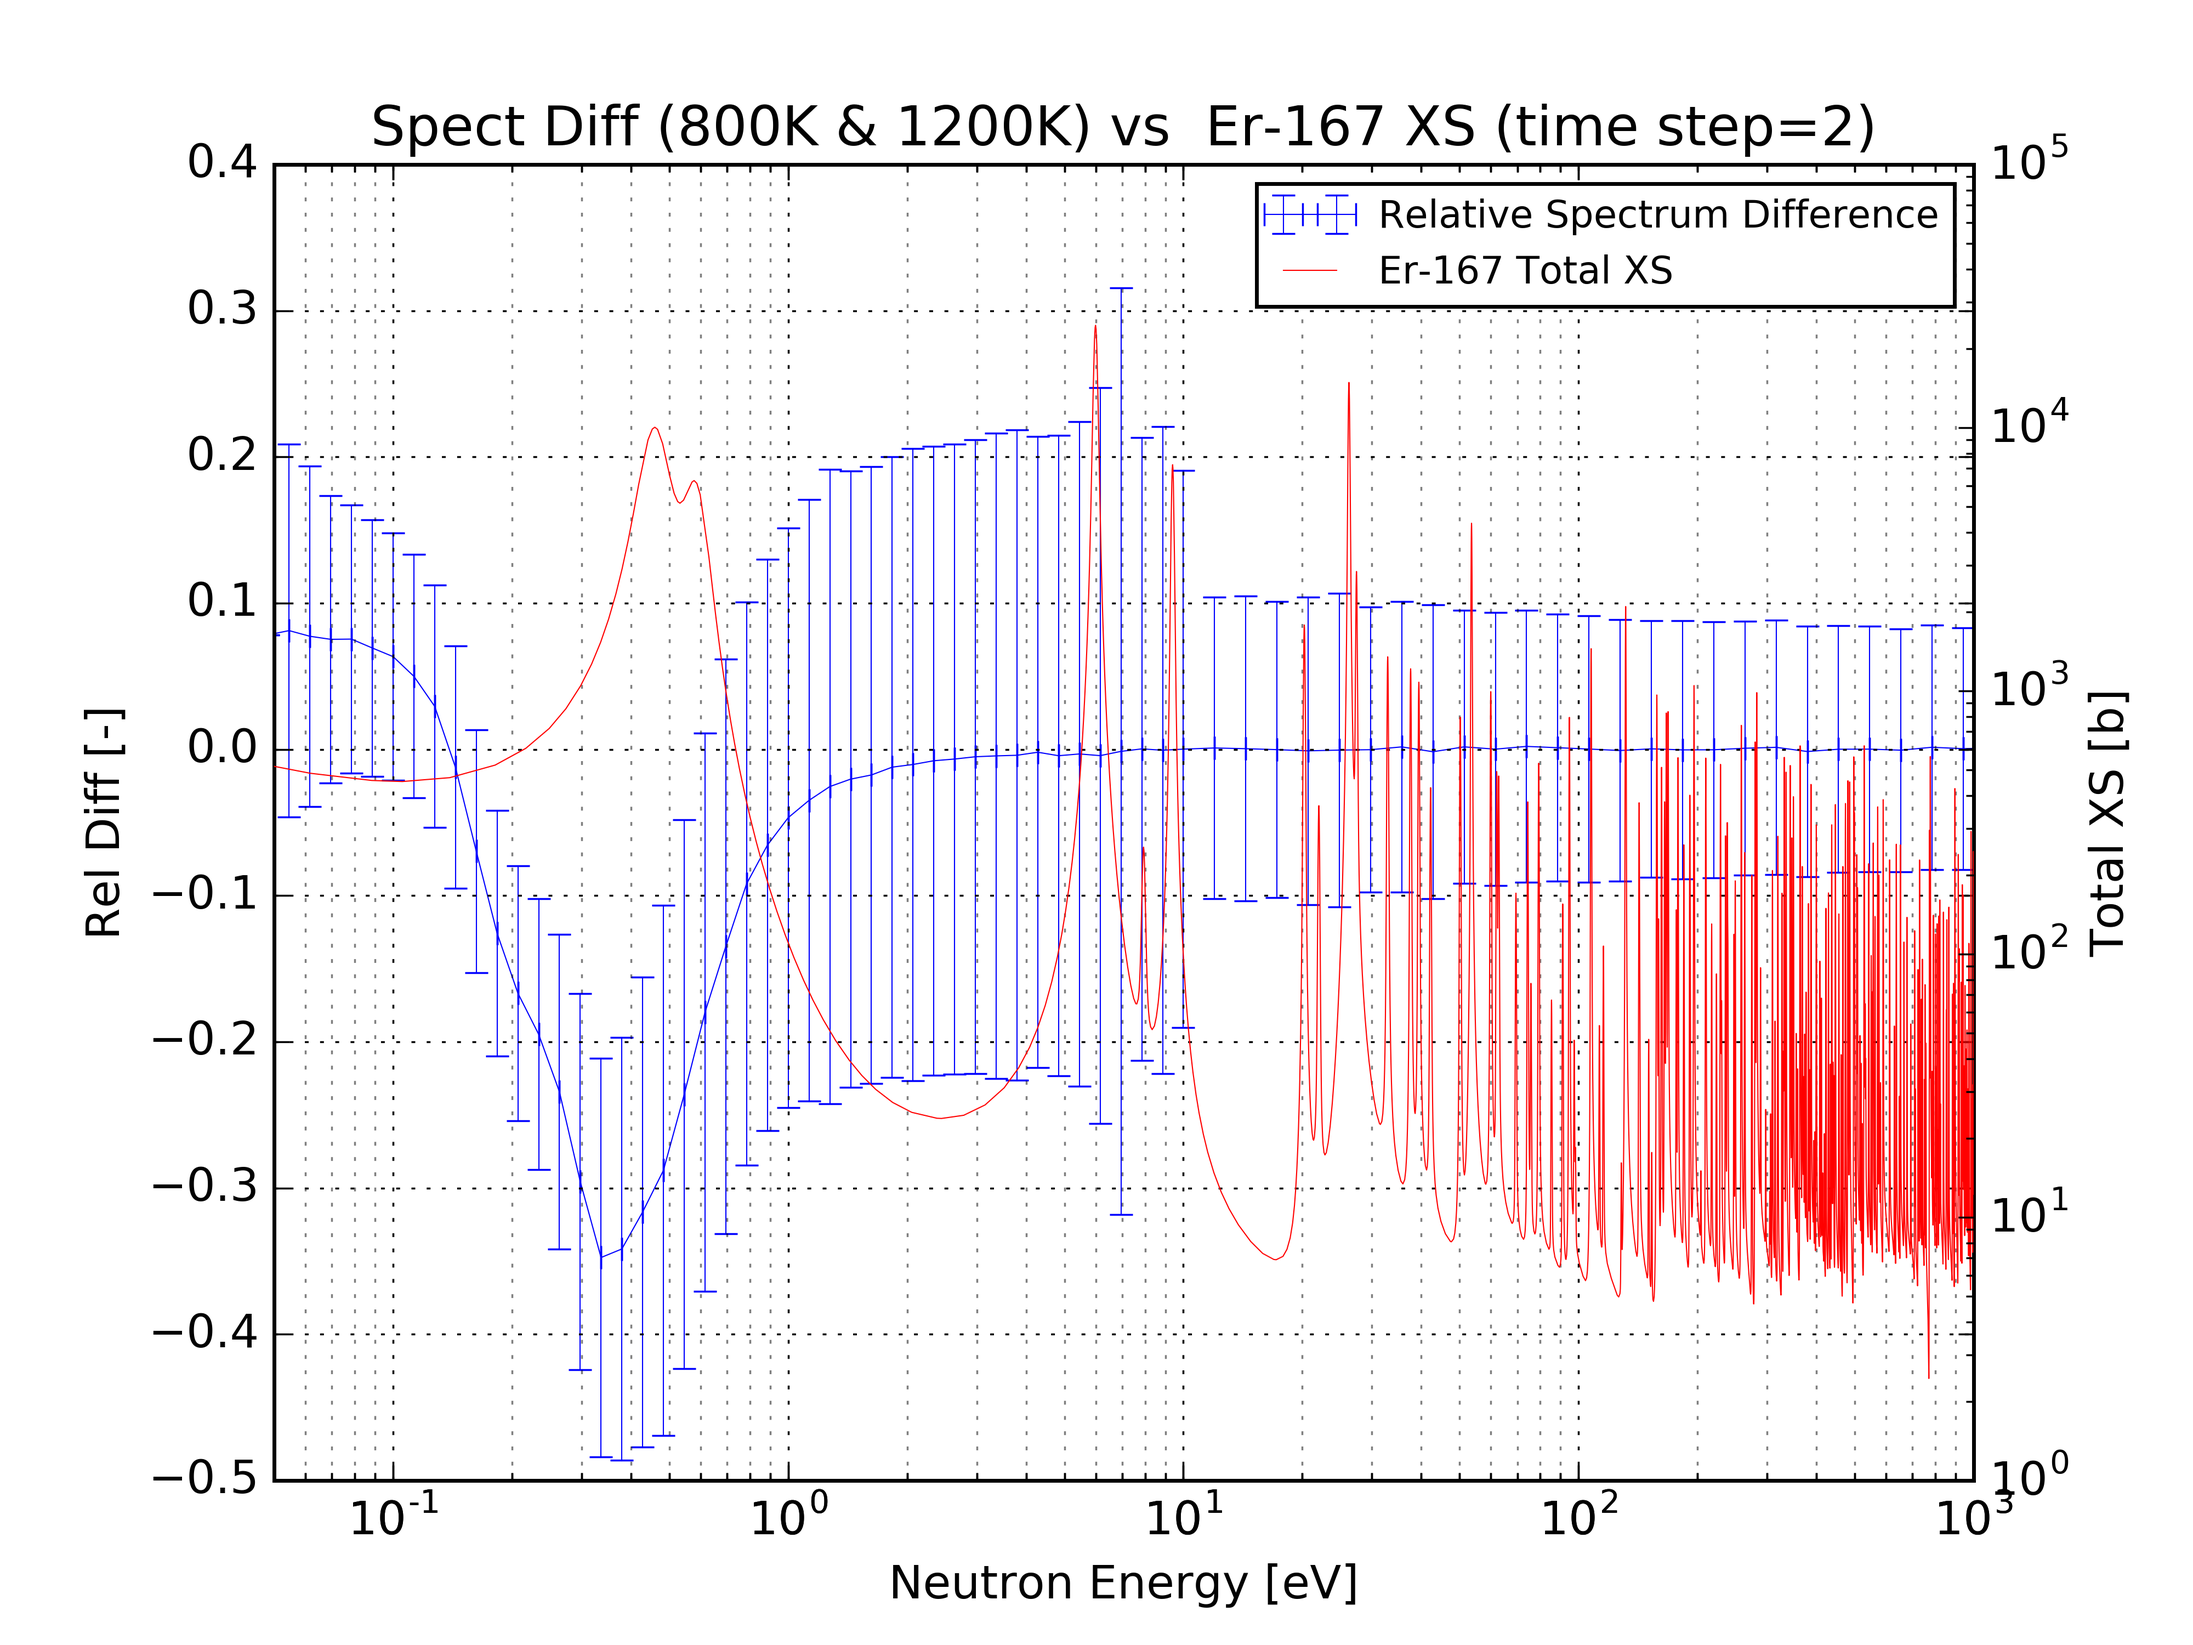
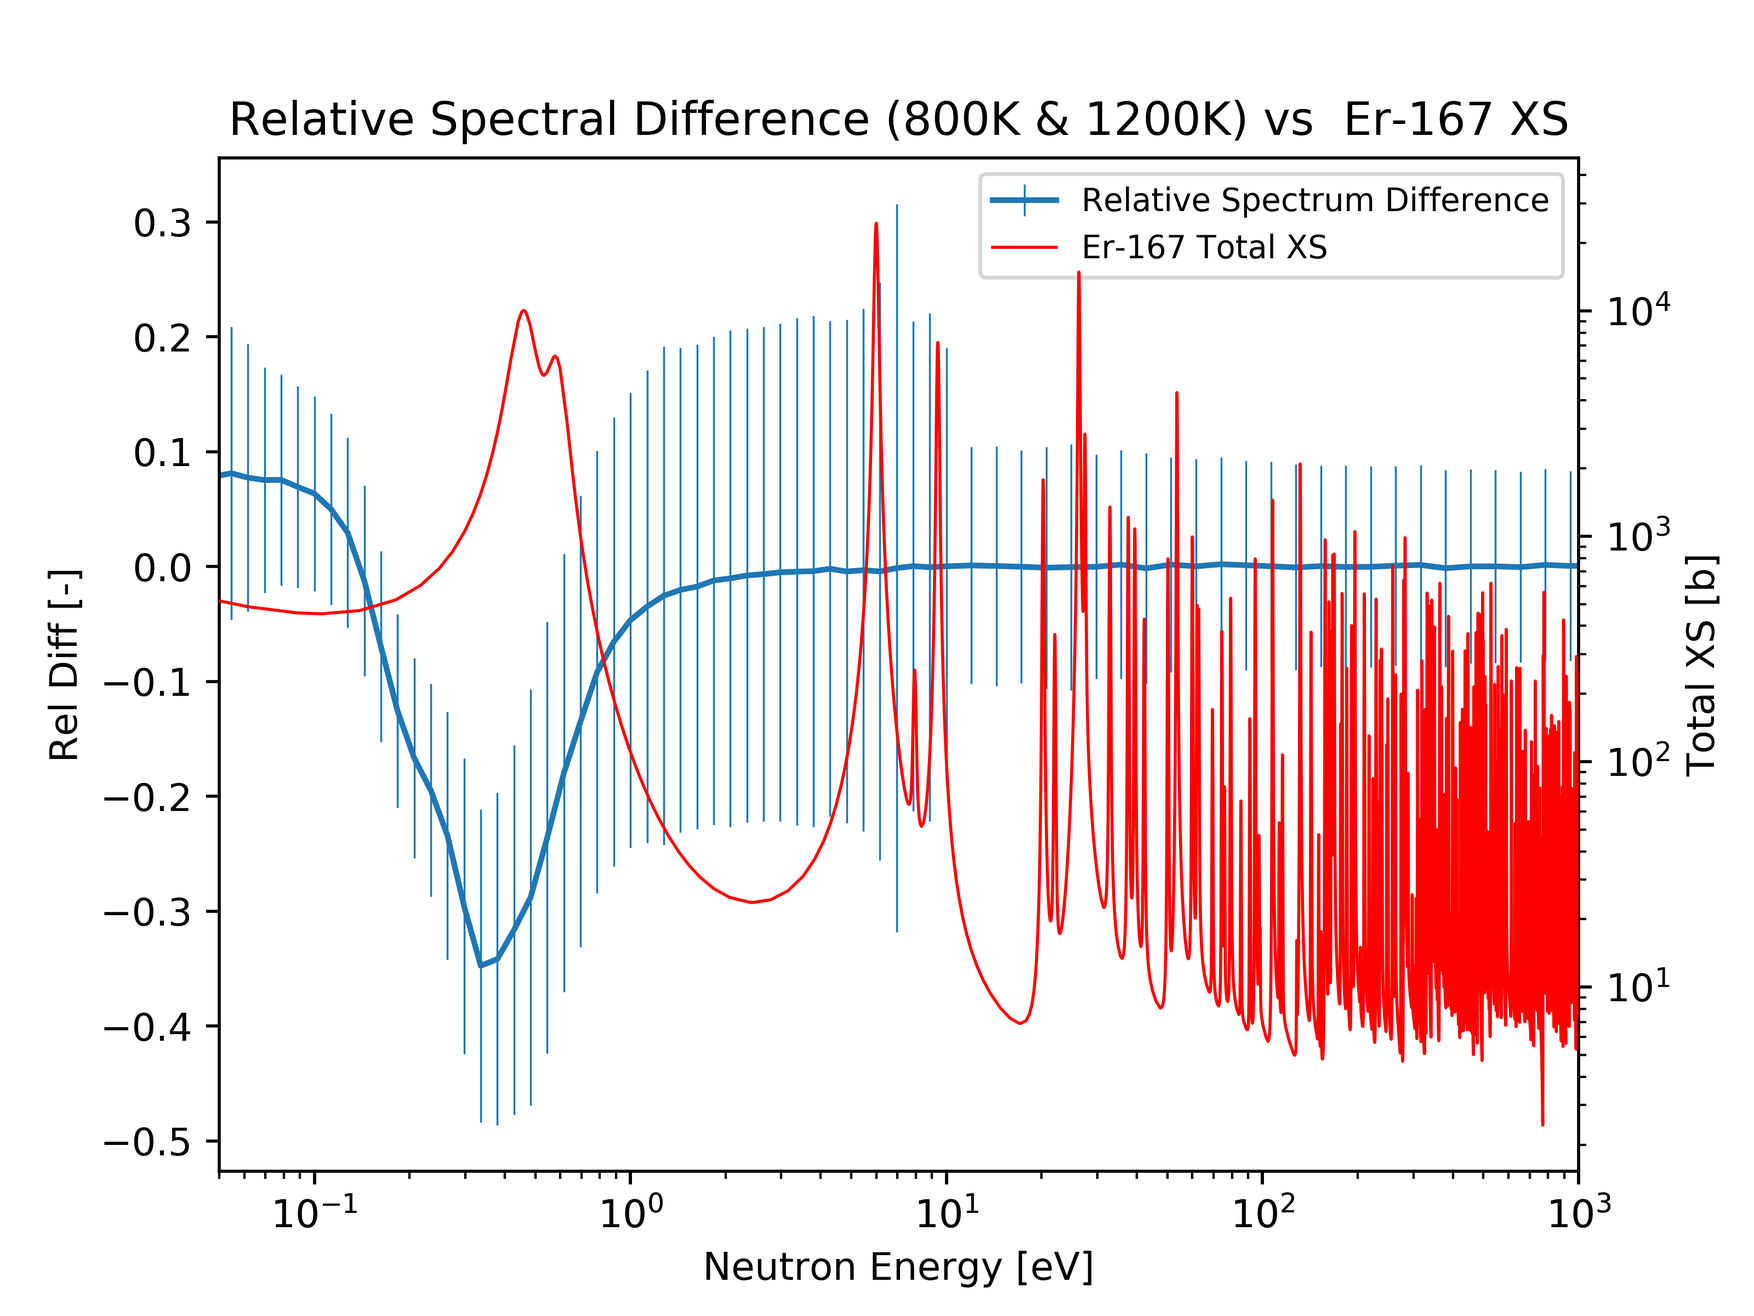
making plots nice for physor

diff --git a/make_plots.py b/make_plots.py
@@ -23,8 +23,8 @@ for i in range(len(spectrum_6)):
         ax = fig.add_subplot(111)
         plt.semilogx()
 
-        plt.grid(which='major', alpha=1)
-        plt.grid(which='minor', alpha=0.5)
+#        plt.grid(which='major', alpha=1)
+#        plt.grid(which='minor', alpha=0.5)
 
         x = [val[0] * 1e6 for val in spectrum_6[i]]
         y_6 = [val[1] for val in spectrum_6[i]]
@@ -40,11 +40,11 @@ for i in range(len(spectrum_6)):
             if x[j] < 0.05 or x[j] > 1e6:
                 y_err[j] = 0.
 
-        ax.errorbar(x, y, xerr=0.0, yerr=y_err, linewidth=.3,
+        ax.errorbar(x, y, xerr=0.0, yerr=y_err, linewidth=1.5, elinewidth=0.5,
                    label='Relative Spectrum Difference')
 
         ax2 = fig.add_subplot(111, sharex=ax, frameon=False)
-        line1 = ax2.loglog(E, b, linewidth=.3, color='red', 
+        line1 = ax2.loglog(E, b, linewidth=0.8, color='red', 
                            label='Er-167 Total XS')
         ax2.yaxis.tick_right()
         ax2.yaxis.set_label_position('right')
@@ -60,8 +60,8 @@ for i in range(len(spectrum_6)):
         h2, l2 = ax2.get_legend_handles_labels()
         ax.legend(h1+h2, l1+l2, loc='upper right', fontsize='small')
         plt.xlim(5e-2, 1e3)
-        plt.title('Spect Diff (800K & 1200K) vs  Er-167 XS (time step=' +\
-str(int(i / 2)) + ')' )
+        plt.title('Relative Spectral Difference (800K & 1200K) vs  Er-167 XS') #(time step=' +\
+#str(int(i / 2)) + ')' )
         ax.set_ylabel('Rel Diff [-]')
         ax2.set_ylabel('Total XS [b]')
         plt.xlabel('Neutron Energy [eV]')
